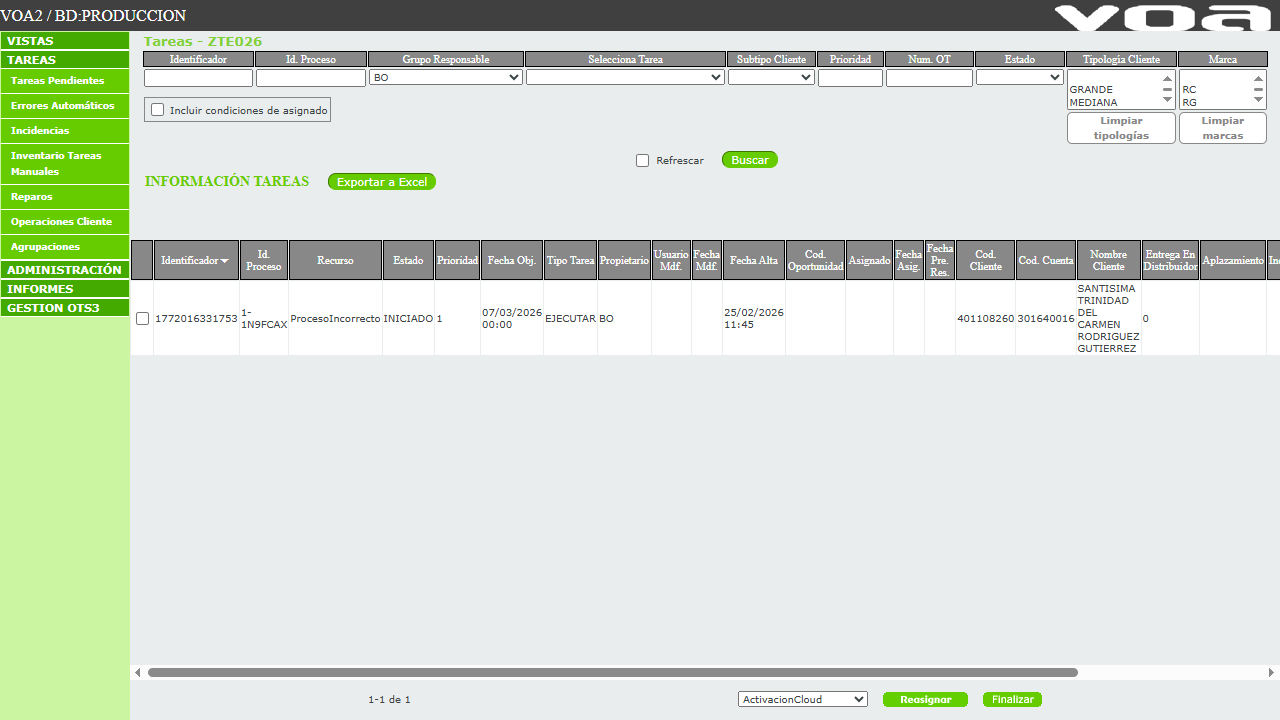
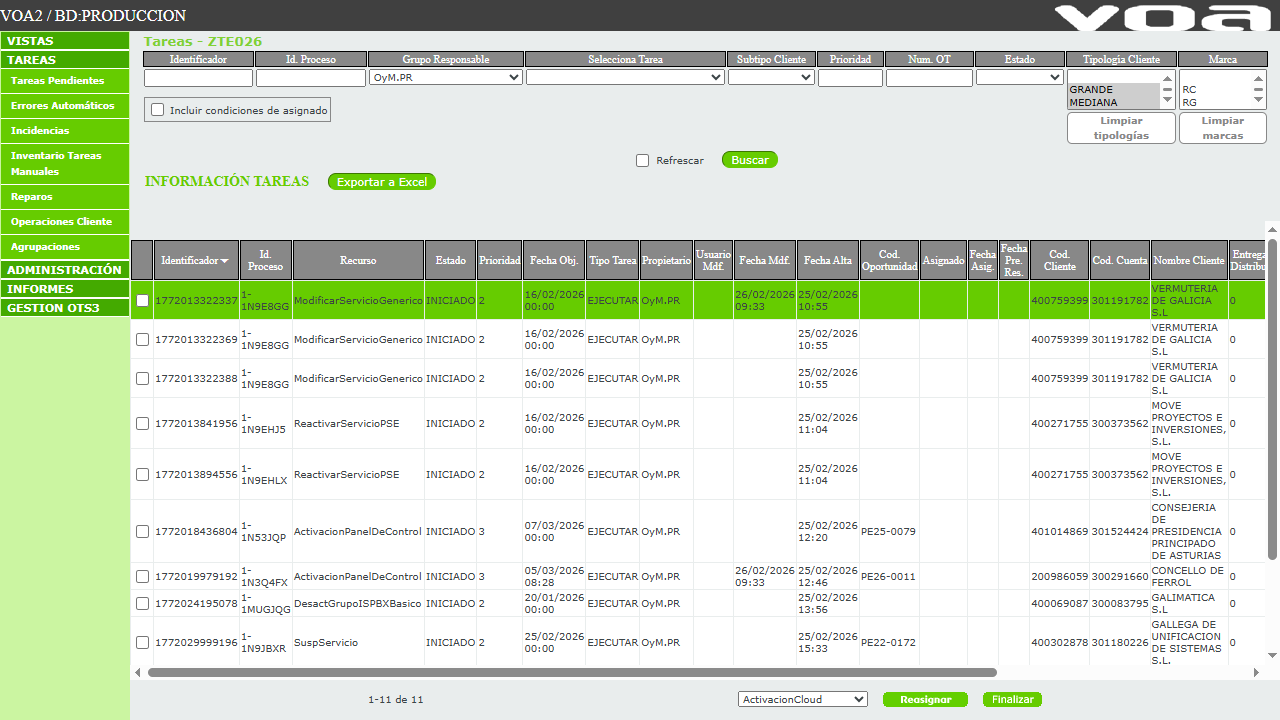
Recopilacion de datos -Jota

diff --git a/app/back/login.py b/app/back/login.py
@@ -1,4 +1,7 @@
 from playwright.sync_api import sync_playwright, TimeoutError as PWTimeout
+import csv
+
+from reflex.page import page
 
 CONFIG = {
     "url": "http://voafijo.r.lan/voa2/index.jsp",
@@ -18,7 +21,7 @@ def main():
 
         page = browser.new_page()
 
-        print("➡ Accediendo al login…")
+        print("Accediendo al login…")
         page.goto(CONFIG["url"], wait_until="domcontentloaded")
 
         # LOGIN
@@ -31,41 +34,97 @@ def main():
         # --------------------------------------------------------
         # SELECCIONAR EL FRAME SUPERIOR
         # --------------------------------------------------------
-        print("🔎 Buscando frame 'superior'…")
+        print("Buscando frame 'superior'…")
 
         superior = page.frame(name="superior")
 
         if not superior:
-            print("❌ No encontré el frame 'superior'.")
+            print("No encontré el frame 'superior'.")
             return
 
-        print("✔ Frame superior encontrado")
+        print("Frame superior encontrado")
 
-        # --------------------------------------------------------
         # ESPERAR QUE APAREZCA EL SELECT
-        # --------------------------------------------------------
         try:
             superior.wait_for_selector("select[name='Perfil']", timeout=4000)
         except PWTimeout:
-            print("❌ No se encontró el select Perfil dentro del frame superior.")
+            print("No se encontró el select Perfil dentro del frame superior.")
             return
 
-        # --------------------------------------------------------
         # SELECCIONAR CATe.N1
-        # --------------------------------------------------------
-        print("➡ Seleccionando perfil CATe.N1…")
-        superior.select_option("select[name='Perfil']", label="BO")
+        print("Seleccionando perfil CATe.N1…")
+        superior.select_option("select[name='Perfil']", label="OyM.PR")
 
-        # --------------------------------------------------------
+                
+        # SELECCIONAR LAS TRES TIPOLOGÍAS DE CLIENTE
+        print("Seleccionando tipologías de cliente…")
+
+        # Selección múltiple
+        
+        superior.select_option(
+            "select[name='TipologiaCliente']",
+            label=["GRANDE", "MEDIANA", "PEQUEÑA"]
+        )
+
+
+        print("Tipologías seleccionadas.")
+
+
         # PULSAR BOTÓN BUSCAR
-        # --------------------------------------------------------
-        print("➡ Pulsando botón 'Buscar'…")
+        print("Pulsando botón 'Buscar'…")
         superior.get_by_text("Buscar", exact=True).click()
-        page.screenshot(path="resultado_busqueda.png", full_page=True)
-        input("✔ Captura guardada como resultado_busqueda.png")
 
-        print("✔ El navegador permanece abierto. No se cerrará.")
-        # NO cerrar el navegador
+        # CAMBIAR A FRAME PRINCIPAL
+        print("Cambiando a frame 'principal'…")
+        principal = page.frame(name="principal")
 
+        if not principal:
+            print("No encontré el frame 'principal'.")
+            return
+
+        print("Frame principal encontrado.")
+
+        # ESPERAR TABLA
+        principal.wait_for_selector("#tabla", timeout=5000)
+
+        # OBTENER FILAS
+        filas = principal.query_selector_all("tr.lista")
+
+        print(f"Filas encontradas: {len(filas)}")
+
+        # CSV DE SALIDA
+        with open("resultados.csv", "w", newline="", encoding="utf-8") as f:
+            writer = csv.writer(f)
+            writer.writerow([
+                "IdProceso",
+                "FechaAlta",
+                "Estado",
+                "Descripcion",
+                "Recurso",
+                "WebServices"
+            ])
+
+            for fila in filas:
+                tds = fila.query_selector_all("td")
+
+                # CAMBIA ESTOS ÍNDICES SI TU TABLA ES DIFERENTE
+                id_proceso = tds[2].inner_text().strip()
+                estado = tds[4].inner_text().strip()
+                recurso = tds[3].inner_text().strip()
+                fecha_alta = tds[12].inner_text().strip()
+                descripcion = tds[3].inner_text().strip()   # ← AJUSTAR SI CAMBIA
+
+                writer.writerow([
+                    id_proceso,
+                    fecha_alta,
+                    estado,
+                    descripcion,
+                    recurso,
+                    "VOA TAREAS"
+                ])
+
+        print("CSV generado como resultados.csv")
+
+        input("ywrty")
 if __name__ == "__main__":
     main()
